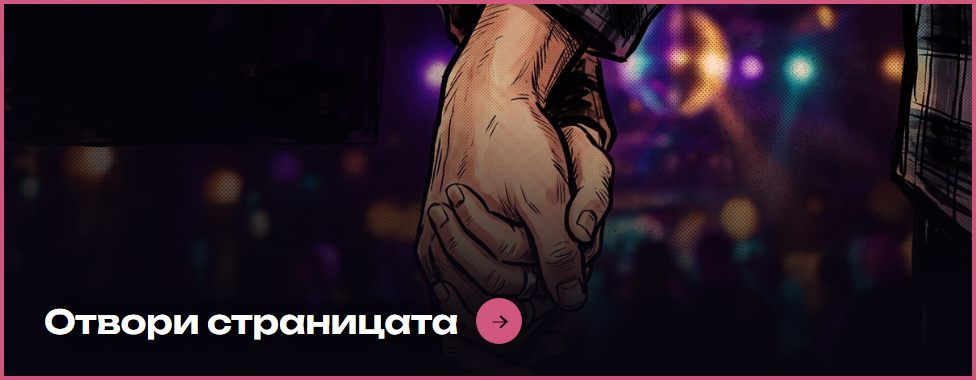
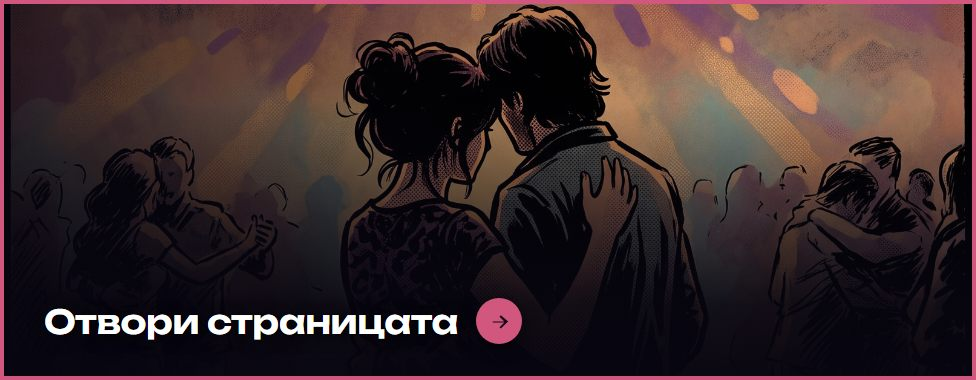
Обратната връзка се мести от страницата в писмото
Страницата се СПОДЕЛЯ — тръгва към втория човек, после към роднини. Мнението
за песента е между клиента и нас, не за всеки, който отвори линка. Затова
формата пада от страницата заедно с otzyv.js и стила ѝ.

В писмото не влиза формуляр, а „отговорете на това писмо". Формуляри в имейл
не работят: Gmail и Outlook блокират изпращането, тоест поле там би изглеждало
живо и би мълчало. Отговорът е едно щракване и не иска съчиняване на ново
съобщение — което беше същината на искането. Отговорите на sales@pesenta.bg се
пренасочват към Gmail.

Снимката-бутон става дискотеката вместо ръцете — избор на поръчителя. Изрезът
е на 52% от височината: при 40% главите се режат и надписът се блъска в
тълпата. Квадратът първо е изчистен от бялата рамка (около 105 пиксела).

Махнат е и редът „Прати я на Николай, когато решиш" — двамата ще я слушат
заедно, линкът е за споделяне после. Писмото е съкратено: три абзаца стават
два, блокът за обратна връзка пада от пет реда на един.

diff --git a/marketing/imeyl-kremena-nikolay.html b/marketing/imeyl-kremena-nikolay.html
@@ -1,0 +1,186 @@
+<!DOCTYPE html>
+<html lang="bg" style="margin:0;padding:0;">
+<head>
+<meta charset="UTF-8">
+<meta name="viewport" content="width=device-width, initial-scale=1">
+<meta name="color-scheme" content="dark light">
+<meta name="supported-color-schemes" content="dark light">
+<title>Песента за вас двамата е готова</title>
+</head>
+<!--
+  ВРЪЧВАНЕ · PSN-260829-7313 · Кремена и Николай Михайлови
+  Поръчано от Кремена, затова обръщението е към нея, а песента е за двамата.
+
+  ОБРАТНАТА ВРЪЗКА е тук, не на страницата. Причината е проста: страницата се
+  споделя. Тя тръгва към Николай, после към роднини — а мнението за песента е
+  между клиента и нас, не за всеки, който отвори линка.
+
+  Полето е „отговорете на това писмо", а не формуляр в имейла. Формуляри в
+  писмо не работят: Gmail и Outlook блокират изпращането. Отговорът е едно
+  щракване и не иска съчиняване на ново съобщение — точно каквото се търсеше.
+  Отговорите на sales@pesenta.bg се пренасочват към Gmail.
+
+  Правилата на шаблона важат: таблици заради Word, инлайн стилове заради
+  Gmail, без градиенти, без SVG, без уеб шрифтове, явен фон и явен цвят на
+  всяка клетка заради тъмните режими.
+-->
+<body style="margin:0;padding:0;background-color:#0B0A1A;" bgcolor="#0B0A1A">
+
+<div style="display:none;max-height:0;overflow:hidden;mso-hide:all;font-size:1px;line-height:1px;color:#0B0A1A;">
+  Двайсет пъти да &mdash; песента за двайсетте ви години.
+</div>
+
+<table role="presentation" cellpadding="0" cellspacing="0" border="0" width="100%"
+       bgcolor="#0B0A1A" style="background-color:#0B0A1A;margin:0;padding:0;">
+<tr>
+<td align="center" bgcolor="#0B0A1A" style="background-color:#0B0A1A;padding:28px 12px;">
+
+<table role="presentation" cellpadding="0" cellspacing="0" border="0" width="600"
+       bgcolor="#12101F" style="width:600px;max-width:600px;background-color:#12101F;">
+
+  <!-- ШАПКА. Текст, не картинка: външните картинки биват изрязвани мълчаливо. -->
+  <tr>
+    <td bgcolor="#0B0A1A" style="background-color:#0B0A1A;padding:26px 32px 22px 32px;">
+      <p style="margin:0 0 5px 0;font-family:'Segoe UI Semibold','Segoe UI',Helvetica,Arial,sans-serif;font-size:26px;line-height:1.1;font-weight:bold;color:#F4F2FF;letter-spacing:0.01em;">
+        PESENTA<span style="color:#D2577F;font-weight:bold;">.</span>BG
+      </p>
+      <p style="margin:0;font-family:'Segoe UI','Helvetica Neue',Arial,sans-serif;font-size:11px;line-height:1.4;color:#8F8AB0;letter-spacing:0.18em;text-transform:uppercase;">
+        Песен по поръчка
+      </p>
+    </td>
+  </tr>
+  <tr>
+    <td bgcolor="#D2577F" height="3" style="background-color:#D2577F;height:3px;font-size:0;line-height:0;">&nbsp;</td>
+  </tr>
+
+  <tr>
+    <td bgcolor="#12101F" style="background-color:#12101F;padding:36px 32px 8px 32px;">
+
+      <p style="margin:0 0 22px 0;font-family:'Segoe UI Semibold','Segoe UI',Helvetica,Arial,sans-serif;font-size:22px;line-height:1.3;color:#F4F2FF;font-weight:bold;">
+        Здравей, Кремена,
+      </p>
+
+      <p style="margin:0 0 26px 0;font-family:'Segoe UI','Helvetica Neue',Arial,sans-serif;font-size:15px;line-height:1.62;color:#D9D5EE;">
+        Песента за вас двамата е готова. Двайсет години в три минути и половина &mdash;
+        от две хиляди и шеста до днес, с Павлена по средата.
+      </p>
+
+      <!-- ПЕСЕНТА -->
+      <table role="presentation" cellpadding="0" cellspacing="0" border="0" width="100%" style="margin:0 0 24px 0;">
+        <tr>
+          <td bgcolor="#1A1730" style="background-color:#1A1730;padding:22px 24px;">
+            <p style="margin:0 0 4px 0;font-family:'Segoe UI Semibold','Segoe UI',Helvetica,Arial,sans-serif;font-size:19px;color:#F4F2FF;font-weight:bold;">
+              Двайсет пъти да
+            </p>
+            <p style="margin:0 0 16px 0;font-family:'Segoe UI','Helvetica Neue',Arial,sans-serif;font-size:13px;line-height:1.5;color:#A9A4C9;">
+              Българска поп балада с ретро диско и хип-хоп, дует &middot; 3:35
+            </p>
+            <a href="https://pesenta.bg/pesni/dvaiset-pati-da.html" style="text-decoration:none;">
+              <img src="https://pesenta.bg/assets/img/mail-cta-dvaiset-pati-da.jpg"
+                   width="488" alt="Отвори страницата"
+                   style="display:block;width:100%;max-width:488px;height:auto;border:0;outline:none;text-decoration:none;">
+            </a>
+            <!-- Резервният линк не е украса: тази картинка може да бъде изрязана
+                 от пощенския клиент, а тогава бутонът изчезва заедно с alt текста. -->
+            <p style="margin:12px 0 0 0;font-family:'Segoe UI','Helvetica Neue',Arial,sans-serif;font-size:12px;line-height:1.5;color:#6F6A8E;">
+              или:
+              <a href="https://pesenta.bg/pesni/dvaiset-pati-da.html" style="color:#6F6A8E;text-decoration:underline;">pesenta.bg/pesni/dvaiset-pati-da.html</a>
+            </p>
+          </td>
+        </tr>
+      </table>
+
+      <p style="margin:0 0 28px 0;font-family:'Segoe UI','Helvetica Neue',Arial,sans-serif;font-size:15px;line-height:1.62;color:#D9D5EE;">
+        На страницата са илюстрацията, целият текст и копче за сваляне. Линкът е личен &mdash;
+        не се индексира от търсачки. Песента е прикачена и към това писмо.
+      </p>
+
+      <!-- ОБРАТНА ВРЪЗКА. Кратко нарочно. -->
+      <table role="presentation" cellpadding="0" cellspacing="0" border="0" width="100%" style="margin:0 0 28px 0;">
+        <tr>
+          <td bgcolor="#12101F" style="background-color:#12101F;border-left:3px solid #FFA14D;padding:2px 0 2px 18px;">
+            <p style="margin:0 0 8px 0;font-family:'Segoe UI Semibold','Segoe UI',Helvetica,Arial,sans-serif;font-size:17px;color:#FFA14D;font-weight:bold;">
+              Как ви се стори?
+            </p>
+            <p style="margin:0;font-family:'Segoe UI','Helvetica Neue',Arial,sans-serif;font-size:15px;line-height:1.62;color:#D9D5EE;">
+              Отговорете направо на това писмо. Ако нещо трябва да е различно, правим го наново.
+            </p>
+          </td>
+        </tr>
+      </table>
+
+      <!-- ПОЖЕЛАНИЕТО. Поискано изрично от поръчителя; стои само, за да се види. -->
+      <table role="presentation" cellpadding="0" cellspacing="0" border="0" width="100%" style="margin:0 0 28px 0;">
+        <tr>
+          <td bgcolor="#1A1730" style="background-color:#1A1730;padding:24px 26px;" align="center">
+            <p style="margin:0;font-family:'Segoe UI','Helvetica Neue',Arial,sans-serif;font-size:16px;line-height:1.6;color:#F4F2FF;">
+              Пожелаваме ви още дълги години съвместен живот,<br>
+              разбирателство и поводи за песни.
+            </p>
+          </td>
+        </tr>
+      </table>
+
+      <!-- ОТСТЪПКА -->
+      <table role="presentation" cellpadding="0" cellspacing="0" border="0" width="100%" style="margin:0 0 6px 0;">
+        <tr>
+          <td bgcolor="#1A1730" style="background-color:#1A1730;padding:26px 24px;">
+            <p style="margin:0 0 10px 0;font-family:'Segoe UI Semibold','Segoe UI',Helvetica,Arial,sans-serif;font-size:17px;color:#F4F2FF;font-weight:bold;">
+              Благодарим ви, че ни се доверихте
+            </p>
+            <p style="margin:0 0 18px 0;font-family:'Segoe UI','Helvetica Neue',Arial,sans-serif;font-size:14px;line-height:1.6;color:#A9A4C9;">
+              Ако някой ви попита откъде е песента, този код му дава
+              <strong style="color:#FFA14D;">20% отстъпка</strong>:
+            </p>
+            <table role="presentation" cellpadding="0" cellspacing="0" border="0">
+              <tr>
+                <td bgcolor="#FFA14D" style="background-color:#FFA14D;padding:13px 22px;font-family:'Courier New',Courier,monospace;font-size:18px;font-weight:bold;letter-spacing:2px;color:#16091C;">
+                  PRIYATELI20
+                </td>
+              </tr>
+            </table>
+          </td>
+        </tr>
+      </table>
+
+    </td>
+  </tr>
+
+  <!-- ПОДПИС -->
+  <tr>
+    <td bgcolor="#12101F" style="background-color:#12101F;padding:26px 32px 30px 32px;">
+      <table role="presentation" cellpadding="0" cellspacing="0" border="0" width="100%">
+        <tr>
+          <td bgcolor="#12101F" height="1" style="background-color:#2A2640;height:1px;font-size:0;line-height:0;">&nbsp;</td>
+        </tr>
+        <tr>
+          <td bgcolor="#12101F" style="background-color:#12101F;padding-top:24px;">
+            <p style="margin:0 0 14px 0;font-family:'Segoe UI','Helvetica Neue',Arial,sans-serif;font-size:15px;line-height:1.6;color:#D9D5EE;">
+              Поздрави,
+            </p>
+            <p style="margin:0 0 3px 0;font-family:'Segoe UI Semibold','Segoe UI',Helvetica,Arial,sans-serif;font-size:19px;line-height:1.25;color:#F4F2FF;font-weight:bold;">
+              Миро
+            </p>
+            <p style="margin:0 0 14px 0;font-family:'Segoe UI','Helvetica Neue',Arial,sans-serif;font-size:12px;line-height:1.5;color:#8F8AB0;letter-spacing:0.14em;">
+              PESENTA<span style="color:#D2577F;font-weight:bold;">.</span>BG
+            </p>
+            <p style="margin:0;font-family:'Segoe UI','Helvetica Neue',Arial,sans-serif;font-size:14px;line-height:1.85;color:#A9A4C9;">
+              <a href="tel:+359899456326" style="color:#D2577F;text-decoration:none;font-weight:bold;">+359 899 456 326</a><br>
+              <a href="mailto:sales@pesenta.bg" style="color:#A9A4C9;text-decoration:none;">sales@pesenta.bg</a>
+              &nbsp;&middot;&nbsp;
+              <a href="https://pesenta.bg" style="color:#A9A4C9;text-decoration:none;">pesenta.bg</a>
+            </p>
+          </td>
+        </tr>
+      </table>
+    </td>
+  </tr>
+
+</table>
+
+</td>
+</tr>
+</table>
+
+</body>
+</html>

diff --git a/assets/css/style.css b/assets/css/style.css
@@ -2651,106 +2651,3 @@ body.podarak {
   .podarak-red { flex-wrap: wrap; }
   .podarak-svali { margin-left: 68px; }
 }
-
-
-/* ---------- Обратна връзка на страница-подарък ----------
-   Стои след края на песента и е нарочно тиха: рамка вместо плътен блок,
-   кехлибарено вместо цикламено. Цикламеното на тази страница значи „това е
-   песента"; ако и формата е в него, двете се борят за същото внимание.
-
-   Полето е широко колкото текста на песента (34em), за да не изглежда като
-   чужд елемент, паднал отгоре. */
-
-.podarak-otzyv {
-  margin: var(--sp-16) auto 0;
-  max-width: 34em;
-  padding-top: var(--sp-9);
-  border-top: 1px solid rgba(255, 255, 255, 0.09);
-}
-.podarak-otzyv h2 {
-  font-family: var(--font-display);
-  font-weight: 600;
-  font-size: var(--fs-md);
-  letter-spacing: -0.01em;
-  margin: 0 0 var(--sp-3);
-}
-.podarak-otzyv-vaved {
-  font-family: var(--font-body);
-  font-size: var(--fs-sm);
-  line-height: 1.6;
-  color: var(--muted);
-  margin: 0 0 var(--sp-6);
-}
-
-.otzyv-forma { display: block; }
-.otzyv-label {
-  display: block;
-  font-family: var(--font-body);
-  font-size: 12px;
-  letter-spacing: 0.14em;
-  text-transform: uppercase;
-  color: var(--muted);
-  margin: 0 0 var(--sp-2);
-}
-.otzyv-label span { text-transform: none; letter-spacing: 0; opacity: 0.7; }
-
-.podarak-otzyv textarea,
-.podarak-otzyv input[type="email"] {
-  width: 100%;
-  font-family: var(--font-body);
-  font-size: 15px;
-  line-height: 1.6;
-  color: var(--text);
-  background: rgba(255, 255, 255, 0.04);
-  border: 1px solid rgba(255, 255, 255, 0.14);
-  border-radius: 10px;
-  padding: var(--sp-4);
-  margin: 0 0 var(--sp-5);
-  resize: vertical;
-  /* 16px на фокус, иначе iOS увеличава страницата при докосване на полето. */
-  transition: border-color var(--dur-fast) var(--ease), background var(--dur-fast) var(--ease);
-}
-@media (max-width: 640px) {
-  .podarak-otzyv textarea,
-  .podarak-otzyv input[type="email"] { font-size: 16px; }
-}
-.podarak-otzyv textarea::placeholder,
-.podarak-otzyv input[type="email"]::placeholder { color: rgba(255, 255, 255, 0.28); }
-.podarak-otzyv textarea:focus,
-.podarak-otzyv input[type="email"]:focus {
-  outline: none;
-  border-color: color-mix(in srgb, var(--kekhlibar) 55%, transparent);
-  background: rgba(255, 255, 255, 0.06);
-}
-
-.otzyv-btn {
-  font-family: var(--font-body);
-  font-weight: 600;
-  font-size: var(--fs-sm);
-  color: var(--ink);
-  background: var(--kekhlibar);
-  border: none;
-  border-radius: 999px;
-  padding: 13px 30px;
-  cursor: pointer;
-  transition: transform var(--dur-fast) var(--ease), opacity var(--dur-fast) var(--ease);
-}
-@media (hover: hover) { .otzyv-btn:hover { transform: translateY(-1px); } }
-.otzyv-btn:disabled { opacity: 0.55; cursor: default; transform: none; }
-.otzyv-btn:focus-visible { outline: 2px solid var(--kekhlibar); outline-offset: 3px; }
-
-.otzyv-greshka {
-  font-family: var(--font-body);
-  font-size: var(--fs-sm);
-  color: #FF9A8B;
-  margin: var(--sp-4) 0 0;
-}
-.otzyv-gotovo {
-  font-family: var(--font-body);
-  font-size: var(--fs-sm);
-  line-height: 1.6;
-  color: var(--kekhlibar);
-  border-left: 2px solid color-mix(in srgb, var(--kekhlibar) 45%, transparent);
-  padding-left: var(--sp-4);
-  margin: 0;
-}

diff --git a/pesni/dvaiset-pati-da.html b/pesni/dvaiset-pati-da.html
@@ -199,49 +199,6 @@
     <p class="podarak-imena">Кремена &amp; Николай</p>
   </div>
 
-  <!-- ОБРАТНА ВРЪЗКА. Клиентът пише тук и толкова — не отваря пощата си, не
-       търси адрес, не съчинява писмо. Праща се през FormSubmit към същия
-       адрес, на който идват заявките.
-
-       Формата е <form> с бутон, а не поле, което праща само при писане:
-       автоматичното изпращане при всяка буква би пратило десетки половинчати
-       съобщения. „Без ново съобщение“ значи без пощенски клиент, не без
-       натискане.
-
-       Ако JavaScript не се зареди, action и method оставят формата да работи
-       по нативния път — FormSubmit показва своя страница за благодарност. -->
-  <section class="podarak-otzyv" id="otzyv">
-    <h2>Как ви се стори?</h2>
-    <p class="podarak-otzyv-vaved">
-      Напишете тук каквото ви е на сърце — похвала, забележка или дума, която
-      искате да е различна. Стига да натиснете копчето; не е нужно да пишете имейл.
-    </p>
-
-    <form class="otzyv-forma" id="otzyv-forma"
-          action="https://formsubmit.co/rusev.miro@gmail.com" method="POST">
-      <input type="hidden" name="_subject" value="Обратна връзка — Двайсет пъти да (PSN-260829-7313)">
-      <input type="hidden" name="_template" value="box">
-      <input type="hidden" name="_captcha" value="false">
-      <input type="hidden" name="Поръчка" value="PSN-260829-7313 · Двайсет пъти да · Кремена и Николай">
-      <!-- Примамка за ботове: човек не я вижда и не я попълва. -->
-      <input type="text" name="_honey" style="display:none" tabindex="-1" autocomplete="off" aria-hidden="true">
-
-      <label class="otzyv-label" for="otzyv-tekst">Вашето мнение</label>
-      <textarea id="otzyv-tekst" name="Мнение" rows="5" required
-                placeholder="Например: припевът е точно както си го представяхме, но…"></textarea>
-
-      <label class="otzyv-label" for="otzyv-imeyl">Имейл, ако искате отговор <span>(по избор)</span></label>
-      <input type="email" id="otzyv-imeyl" name="Имейл" placeholder="вашият@имейл.бг" autocomplete="email">
-
-      <button type="submit" class="otzyv-btn">Изпрати</button>
-      <p class="otzyv-greshka" id="otzyv-greshka" hidden></p>
-    </form>
-
-    <p class="otzyv-gotovo" id="otzyv-gotovo" hidden>
-      Благодарим — получихме го. Ако сте оставили имейл, ще ви пишем.
-    </p>
-  </section>
-
   <!-- Знакът е подпис, не реклама: не води наникъде и стои тихо. -->
   <div class="podarak-znak">
     <img src="../assets/img/logo.svg" alt="Песента" width="120" height="28">
@@ -250,6 +207,5 @@
 </main>
 
 <script src="../assets/js/main.js" defer></script>
-<script src="../assets/js/otzyv.js" defer></script>
 </body>
 </html>
